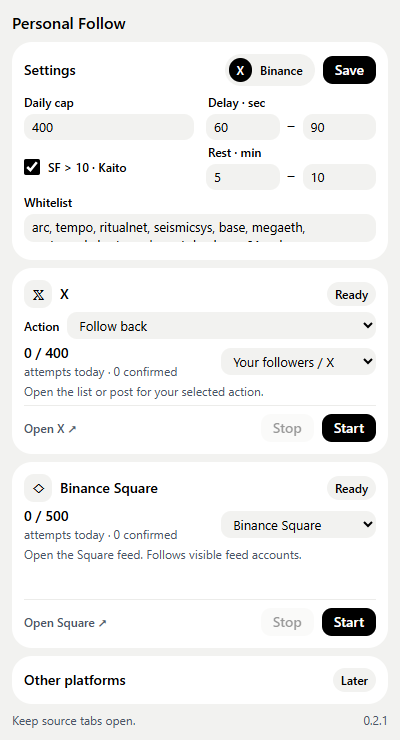
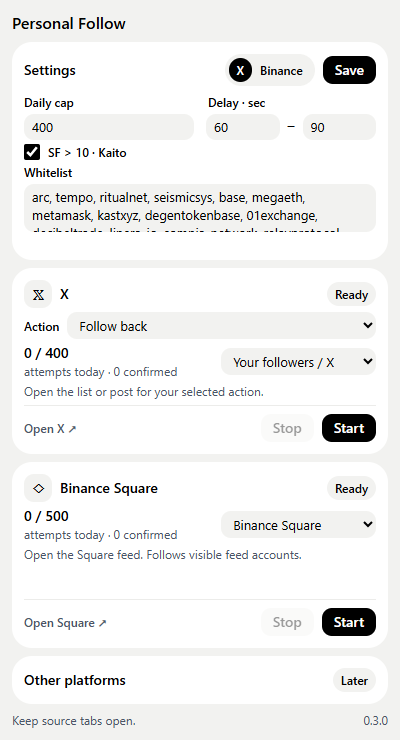
ui: remove X batch rests and expand Whitelist field

diff --git a/extension/model.js b/extension/model.js
@@ -1,5 +1,5 @@
 export const defaults = {
-  x: { dailyLimit: 400, minDelay: 60, maxDelay: 90, restMin: 5, restMax: 10, mode: 'follow', personal: true, whitelist: "arc, tempo, ritualnet, seismicsys, base, megaeth, metamask, kastxyz, degentokenbase, 01exchange, decibeltrade, linera_io, somnia_network, relayprotocol, jumperapp, prismaxai, axisrobotics, psdnai, nansen_ai, ethos_network, wallchain, forteprotocol, upshot_cards, megapot, spektergames, pixiechess, integra_layer, getoro_xyz, farcaster_xyz, bluesky, stormrae_ai, concretexyz, ezwalletapp, kucoincom, bybit_official, binanceangels, riverdotinc, river4fun, binance, bitget, arcium, bybitafrica, binancevip" },
+  x: { dailyLimit: 400, minDelay: 60, maxDelay: 90, mode: 'follow', personal: true, whitelist: "arc, tempo, ritualnet, seismicsys, base, megaeth, metamask, kastxyz, degentokenbase, 01exchange, decibeltrade, linera_io, somnia_network, relayprotocol, jumperapp, prismaxai, axisrobotics, psdnai, nansen_ai, ethos_network, wallchain, forteprotocol, upshot_cards, megapot, spektergames, pixiechess, integra_layer, getoro_xyz, farcaster_xyz, bluesky, stormrae_ai, concretexyz, ezwalletapp, kucoincom, bybit_official, binanceangels, riverdotinc, river4fun, binance, bitget, arcium, bybitafrica, binancevip" },
   binance: { dailyLimit: 500, minDelay: 10, maxDelay: 30 }
 };
 export const dayKey = (date = new Date()) => new Intl.DateTimeFormat('en-CA', { timeZone: 'Asia/Ho_Chi_Minh', year: 'numeric', month: '2-digit', day: '2-digit' }).format(date);
@@ -11,7 +11,7 @@ export function validSettings(platform, value) {
   if (result.minDelay > result.maxDelay || result.maxDelay > 86400) throw Error('Delay range is invalid.');
   if (platform === 'x') {
     if (!['follow', 'massfollow', 'unfollow', 'unfollow_topdown'].includes(result.mode)) throw Error('Choose an X mode.');
-    if (![result.restMin, result.restMax].every(n => Number.isFinite(n) && n >= 1 && n <= 1440) || result.restMin > result.restMax) throw Error('Rest range is invalid.');
+    delete result.restMin; delete result.restMax;
     result.personal = !!result.personal;
     result.whitelist = [...new Set(String(result.whitelist).split(/[\s,]+/).map(s => s.replace(/^@/, '').toLowerCase()).filter(s => /^[a-z0-9_]{1,15}$/.test(s)))].join(', ');
   }

diff --git a/extension/sidepanel.html b/extension/sidepanel.html
@@ -17,7 +17,7 @@
           <div id="x-settings"><label class="toggle" title="Follow only SF > 10. Preserve SF > 10 when unfollowing; skip missing SF. Requires Kaito."><input type="checkbox" id="personal">SF &gt; 10 · Kaito</label></div>
           <label>Daily cap<input id="dailyLimit" type="number" min="1" max="10000" step="1" required></label>
           <fieldset><legend>Delay · sec</legend><div class="range"><label><span class="sr-only">Minimum delay</span><input id="minDelay" type="number" min="1" max="86400" required></label><span>–</span><label><span class="sr-only">Maximum delay</span><input id="maxDelay" type="number" min="1" max="86400" required></label></div></fieldset>
-          <div id="x-rest"><fieldset><legend title="Rest after 20–30 mass-follow or unfollow actions">Rest · min</legend><div class="range"><label><span class="sr-only">Minimum rest</span><input id="restMin" type="number" min="1" max="1440"></label><span>–</span><label><span class="sr-only">Maximum rest</span><input id="restMax" type="number" min="1" max="1440"></label></div></fieldset><label class="whitelist-field">Whitelist<textarea id="whitelist" rows="1" spellcheck="false" placeholder="@handle, @handle"></textarea></label></div>
+          <label id="x-whitelist" class="whitelist-field">Whitelist<textarea id="whitelist" rows="2" spellcheck="false" placeholder="@handle, @handle"></textarea></label>
           <p id="settings-error" class="error" role="alert"></p>
           
         </form>
@@ -40,7 +40,7 @@
       </section>
 
     </div>
-    <footer><span>Keep source tabs open.</span><span class="version">0.3.0</span></footer>
+    <footer><span>Keep source tabs open.</span><span class="version">0.3.1</span></footer>
   </main>
   <script type="module" src="sidepanel.js"></script>
 </body>

diff --git a/extension/content-core.js b/extension/content-core.js
@@ -21,7 +21,7 @@
         if (document.querySelector('iframe[src*="captcha"], [data-testid="ocfEnterTextTextInput"], #login-dialog')) throw Error('Login or verification required.');
       }
       async function execute(run) {
-        let burst = 0, burstLimit = random(20, 30), misses = 0, capReached = false;
+        let misses = 0, capReached = false;
         const seen = new Set();
         const report = (status, nextAt = null) => ask({ type: 'status', platform: adapter.id, token: run.token, running: true, status, nextAt });
         const ctx = {
@@ -73,13 +73,9 @@
             const outcome = await adapter.step(ctx);
             if (outcome === 'acted') {
               if (capReached) throw Error('Daily cap reached.');
-              misses = 0; burst++;
-              let delay = random(run.settings.minDelay * 1000, run.settings.maxDelay * 1000);
-              let label = 'Waiting for the next action';
-              if (adapter.id === 'x' && run.settings.mode !== 'follow' && burst >= burstLimit) {
-                delay = random(run.settings.restMin * 60000, run.settings.restMax * 60000);
-                burst = 0; burstLimit = random(20, 30); label = 'Resting between batches';
-              }
+              misses = 0;
+              const delay = random(run.settings.minDelay * 1000, run.settings.maxDelay * 1000);
+              const label = 'Waiting for the next action';
               await report(label, Date.now() + delay); await ctx.wait(delay);
             } else {
               if (outcome === 'empty' && ++misses >= 12) throw Error('No more eligible accounts found. Check the feed before restarting.');

diff --git a/extension/sidepanel.css b/extension/sidepanel.css
@@ -16,14 +16,12 @@ p { margin:0; color:var(--ds-color-grey); font-size:var(--ds-type-note-size); li
 #settings-form { display:grid; grid-template-columns:minmax(0,1fr) minmax(0,1fr); gap:var(--ds-space-4) var(--ds-space-12); align-items:end; }
 #settings-form > label { grid-column:1; grid-row:1; }
 #settings-form > fieldset { grid-column:2; grid-row:1; }
-#x-settings { grid-column:1; grid-row:2; align-self:center; }
-#x-rest { display:contents; }
-#x-rest fieldset { grid-column:2; grid-row:2; }
-.whitelist-field { grid-column:1 / -1; grid-row:3; }
+#x-settings { grid-column:1 / -1; grid-row:2; align-self:center; }
+#settings-form > .whitelist-field { grid-column:1 / -1; grid-row:3; }
 label, legend { display:block; font-size:var(--ds-type-label-size); line-height:var(--ds-type-label-line); font-weight:600; }
 fieldset { padding:0; margin:0; border:0; min-width:0; }
 input, select, textarea { display:block; width:100%; min-width:0; margin-top:var(--ds-space-4); border:0; border-radius:var(--ds-bento-radius-inner); background:var(--ds-bento-canvas); color:var(--ds-color-ink); padding:var(--ds-space-4) var(--ds-space-8); font-family:inherit; font-size:var(--ds-type-secondary-size); line-height:var(--ds-type-secondary-line); font-weight:400; }
-textarea { height:28px; min-height:28px; resize:none; }
+textarea { height:48px; min-height:48px; resize:none; }
 select { text-overflow:ellipsis; }
 .range { display:flex; align-items:center; gap:var(--ds-space-8); }
 .range label { min-width:0; flex:1; }

diff --git a/extension/sidepanel.js b/extension/sidepanel.js
@@ -11,15 +11,15 @@ async function ask(message) {
 }
 function renderForm() {
   const values = settings[selected];
-  for (const key of ['dailyLimit', 'minDelay', 'maxDelay', 'mode', 'restMin', 'restMax', 'whitelist']) if (values[key] !== undefined) $(key).value = values[key];
+  for (const key of ['dailyLimit', 'minDelay', 'maxDelay', 'mode', 'whitelist']) if (values[key] !== undefined) $(key).value = values[key];
   $('personal').checked = settings.x.personal;
-  $('x-settings').hidden = $('x-rest').hidden = selected !== 'x';
+  $('x-settings').hidden = $('x-whitelist').hidden = selected !== 'x';
   for (const p of ['x', 'binance']) $('settings-' + p).setAttribute('aria-pressed', String(p === selected));
   $('save-state').textContent = 'Saved'; $('settings-error').textContent = ''; dirty = false;
 }
 function collect() {
   const values = { ...settings[selected] };
-  for (const key of ['dailyLimit', 'minDelay', 'maxDelay', ...(selected === 'x' ? ['restMin', 'restMax'] : [])]) values[key] = Number($(key).value);
+  for (const key of ['dailyLimit', 'minDelay', 'maxDelay']) values[key] = Number($(key).value);
   if (selected === 'x') { values.mode = $('mode').value; values.personal = $('personal').checked; values.whitelist = $('whitelist').value; }
   return validSettings(selected, values);
 }

diff --git a/tests/ui.spec.js b/tests/ui.spec.js
@@ -44,6 +44,14 @@ test('vertical layout supports settings and start/stop', async ({ page }) => {
   await page.getByRole('button', { name: 'X', exact: true }).click();
   await expect(page.locator('#dailyLimit')).toHaveValue('400');
   await expect(page.locator('#personal')).toBeChecked();
+  await expect(page.locator('#restMin, #restMax')).toHaveCount(0);
+  expect((await page.locator('#whitelist').boundingBox()).height).toBeGreaterThanOrEqual(48);
+  await page.locator('#whitelist').fill('alice, bob');
+  await page.getByRole('button', { name: 'Save' }).click();
+  await page.getByRole('button', { name: 'Binance', exact: true }).click();
+  await expect(page.locator('#whitelist')).toBeHidden();
+  await page.getByRole('button', { name: 'X', exact: true }).click();
+  await expect(page.locator('#whitelist')).toHaveValue('alice, bob');
   expect(errors).toEqual([]);
 });
 

diff --git a/tests/model.test.js b/tests/model.test.js
@@ -33,7 +33,8 @@ test('cap is enforced before another attempt is reserved', () => {
 test('settings reject invalid limits and inverted timing', () => {
   for (const dailyLimit of [0, -1, 1.5, NaN, Infinity]) assert.throws(() => validSettings('binance', { dailyLimit }));
   assert.throws(() => validSettings('binance', { minDelay: 30, maxDelay: 10 }));
-  assert.throws(() => validSettings('x', { restMin: 12, restMax: 1 }));
+  const x = validSettings('x', { restMin: 12, restMax: 1 });
+  assert.equal('restMin' in x || 'restMax' in x, false);
   assert.equal(validSettings('x', { whitelist: '@alice, ALICE, bob, <img>' }).whitelist, 'alice, bob');
 });
 test('only X and Square routes are eligible', () => {

diff --git a/docs/SOURCES.md b/docs/SOURCES.md
@@ -7,7 +7,7 @@ Copied from the user's repository, with authorization in this chat:
 - https://github.com/KattyFury/tool_personal_xmanager
 - Source commit: `69b8ad3fbea609c0006441c8c874e28e739aafba`
 - Both original userscripts are preserved unchanged in `reference/xmanager/` for comparison. These copies are not executed by the extension.
-- `extension/content-x.js` adapts the original UserCell and tweet selectors, Kaito score parsing, SF > 10 threshold, verified badge detection, hover-card targeting, four modes, whitelist, scrolling directions, and burst-rest behavior. The Personal version's latest executable code and HANDOFF take precedence over older conflicting MEMORY descriptions.
+- `extension/content-x.js` adapts the original UserCell and tweet selectors, Kaito score parsing, SF > 10 threshold, verified badge detection, hover-card targeting, four modes, whitelist, scrolling directions. Batch rests were removed at the user’s request in 0.3.1. The Personal version's latest executable code and HANDOFF take precedence over older conflicting MEMORY descriptions.
 - Full original default whitelist is retained. Whitelist matching is exact instead of prefix matching.
 - Standard mode comes from the non-Personal script: follow without SF, preserve verified accounts that follow you when unfollowing.
 

diff --git a/README.md b/README.md
@@ -20,7 +20,7 @@ Adapted from [your X Manager](https://github.com/KattyFury/tool_personal_xmanage
 - **Unfollow:** open your following list; choose top to bottom or bottom to top.
 - Personal filter enabled by default: follow only SF > 10; unfollow SF ≤ 10; skip missing SF and preserve the whitelist. Requires your Kaito badge extension.
 - Personal filter off: no SF requirement for follows; unfollow preserves the whitelist and verified accounts that follow you.
-- Original defaults retained: 400 attempts/day, 60–90 seconds between actions, 5–10 minute rests after 20–30 mass-follow/unfollow actions. Full source whitelist retained.
+- Defaults: 400 attempts/day and 60–90 seconds between actions. Batch rests have been removed; the Whitelist field uses the freed space. Full source whitelist retained.
 
 ## Binance Square
 
